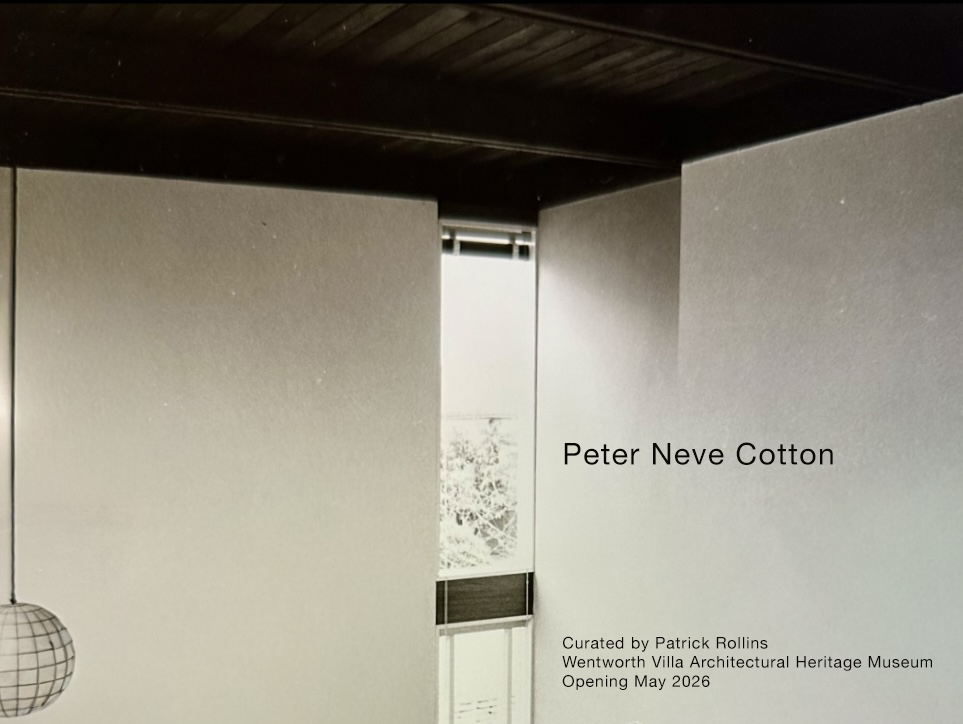
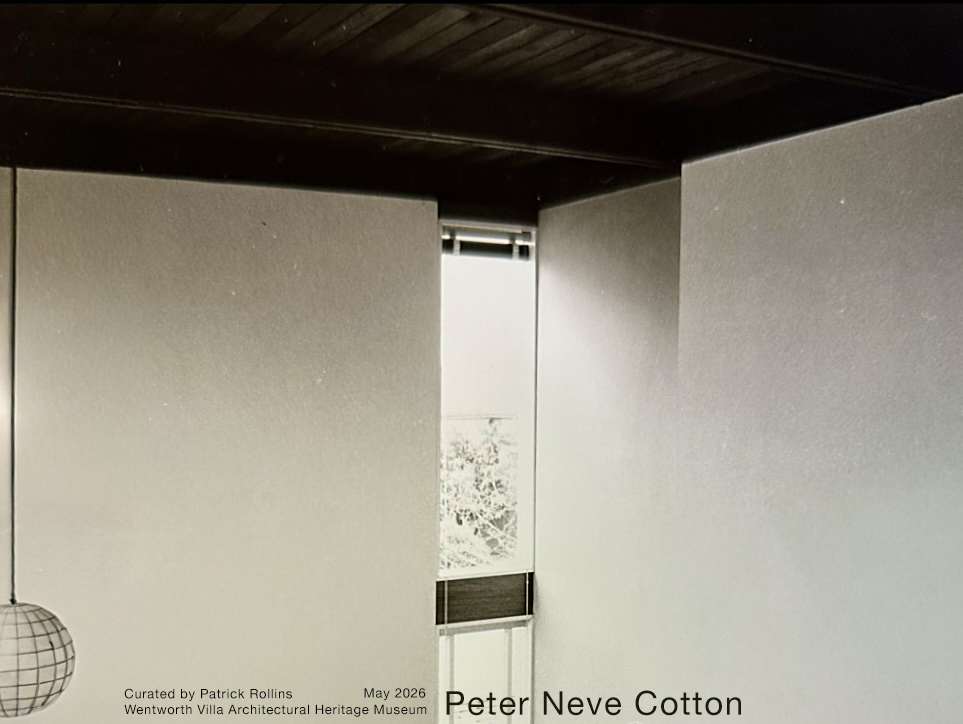
uo

Changed region(s): [[0.1246, 0.8812, 0.9657, 1.0], [0.5607, 0.6077, 0.8723, 0.6381]]

diff --git a/research.html b/research.html
@@ -376,8 +376,8 @@
         decoding="async"
       />
 
-      <p>This exhibition focuses explicitly on the furniture design and manufacturing practice of Peter Neve Cotton (1918–1978), examining his Perpetua line and related domestic works as a sustained and under-recognized contribution to postwar West Coast design culture. Drawing on archival documents and photographs from the UVic Maltwood Gallery, UBC Archives, and the BC Archives, alongside original drawings, blueprints, and examples or reproductions of Perpetua furniture, the exhibition situates Cotton’s furniture as a site where architectural thinking, material economy, and modern craft converge. Produced primarily in the early 1950s through his short-lived Perpetua Furniture enterprise, these works articulate a domestic-scale modernism that translated architectural ideas into everyday use, testing the possibilities of industrial production, material innovation, and functional design within the cultural and economic constraints of the postwar period.
-      <p class="small"><span class="b">Status:</span> In development.</p>
+      <p>This exhibition centres the furniture design and manufacturing practice of Peter Neve Cotton (1918–1978), examining his Perpetua line and related domestic works as a sustained and under-recognized contribution to postwar West Coast design culture. Drawing on archival documents and photographs from the UVic Maltwood Gallery, UBC Archives, and the BC Archives, alongside original drawings, blueprints, and examples or reproductions of Perpetua furniture, the exhibition situates Cotton’s furniture as a site where architectural thinking, material economy, and modern craft converge. Produced primarily in the early 1950s through his short-lived Perpetua Furniture enterprise, these works articulate a domestic-scale modernism that translated architectural ideas into everyday use, testing the possibilities of industrial production, material innovation, and functional design within the cultural and economic constraints of the postwar period.
+      <p class="small"><span class="b">Status:</span>In Development. Opening May 2026</p>
     </div>
   </section>
 
